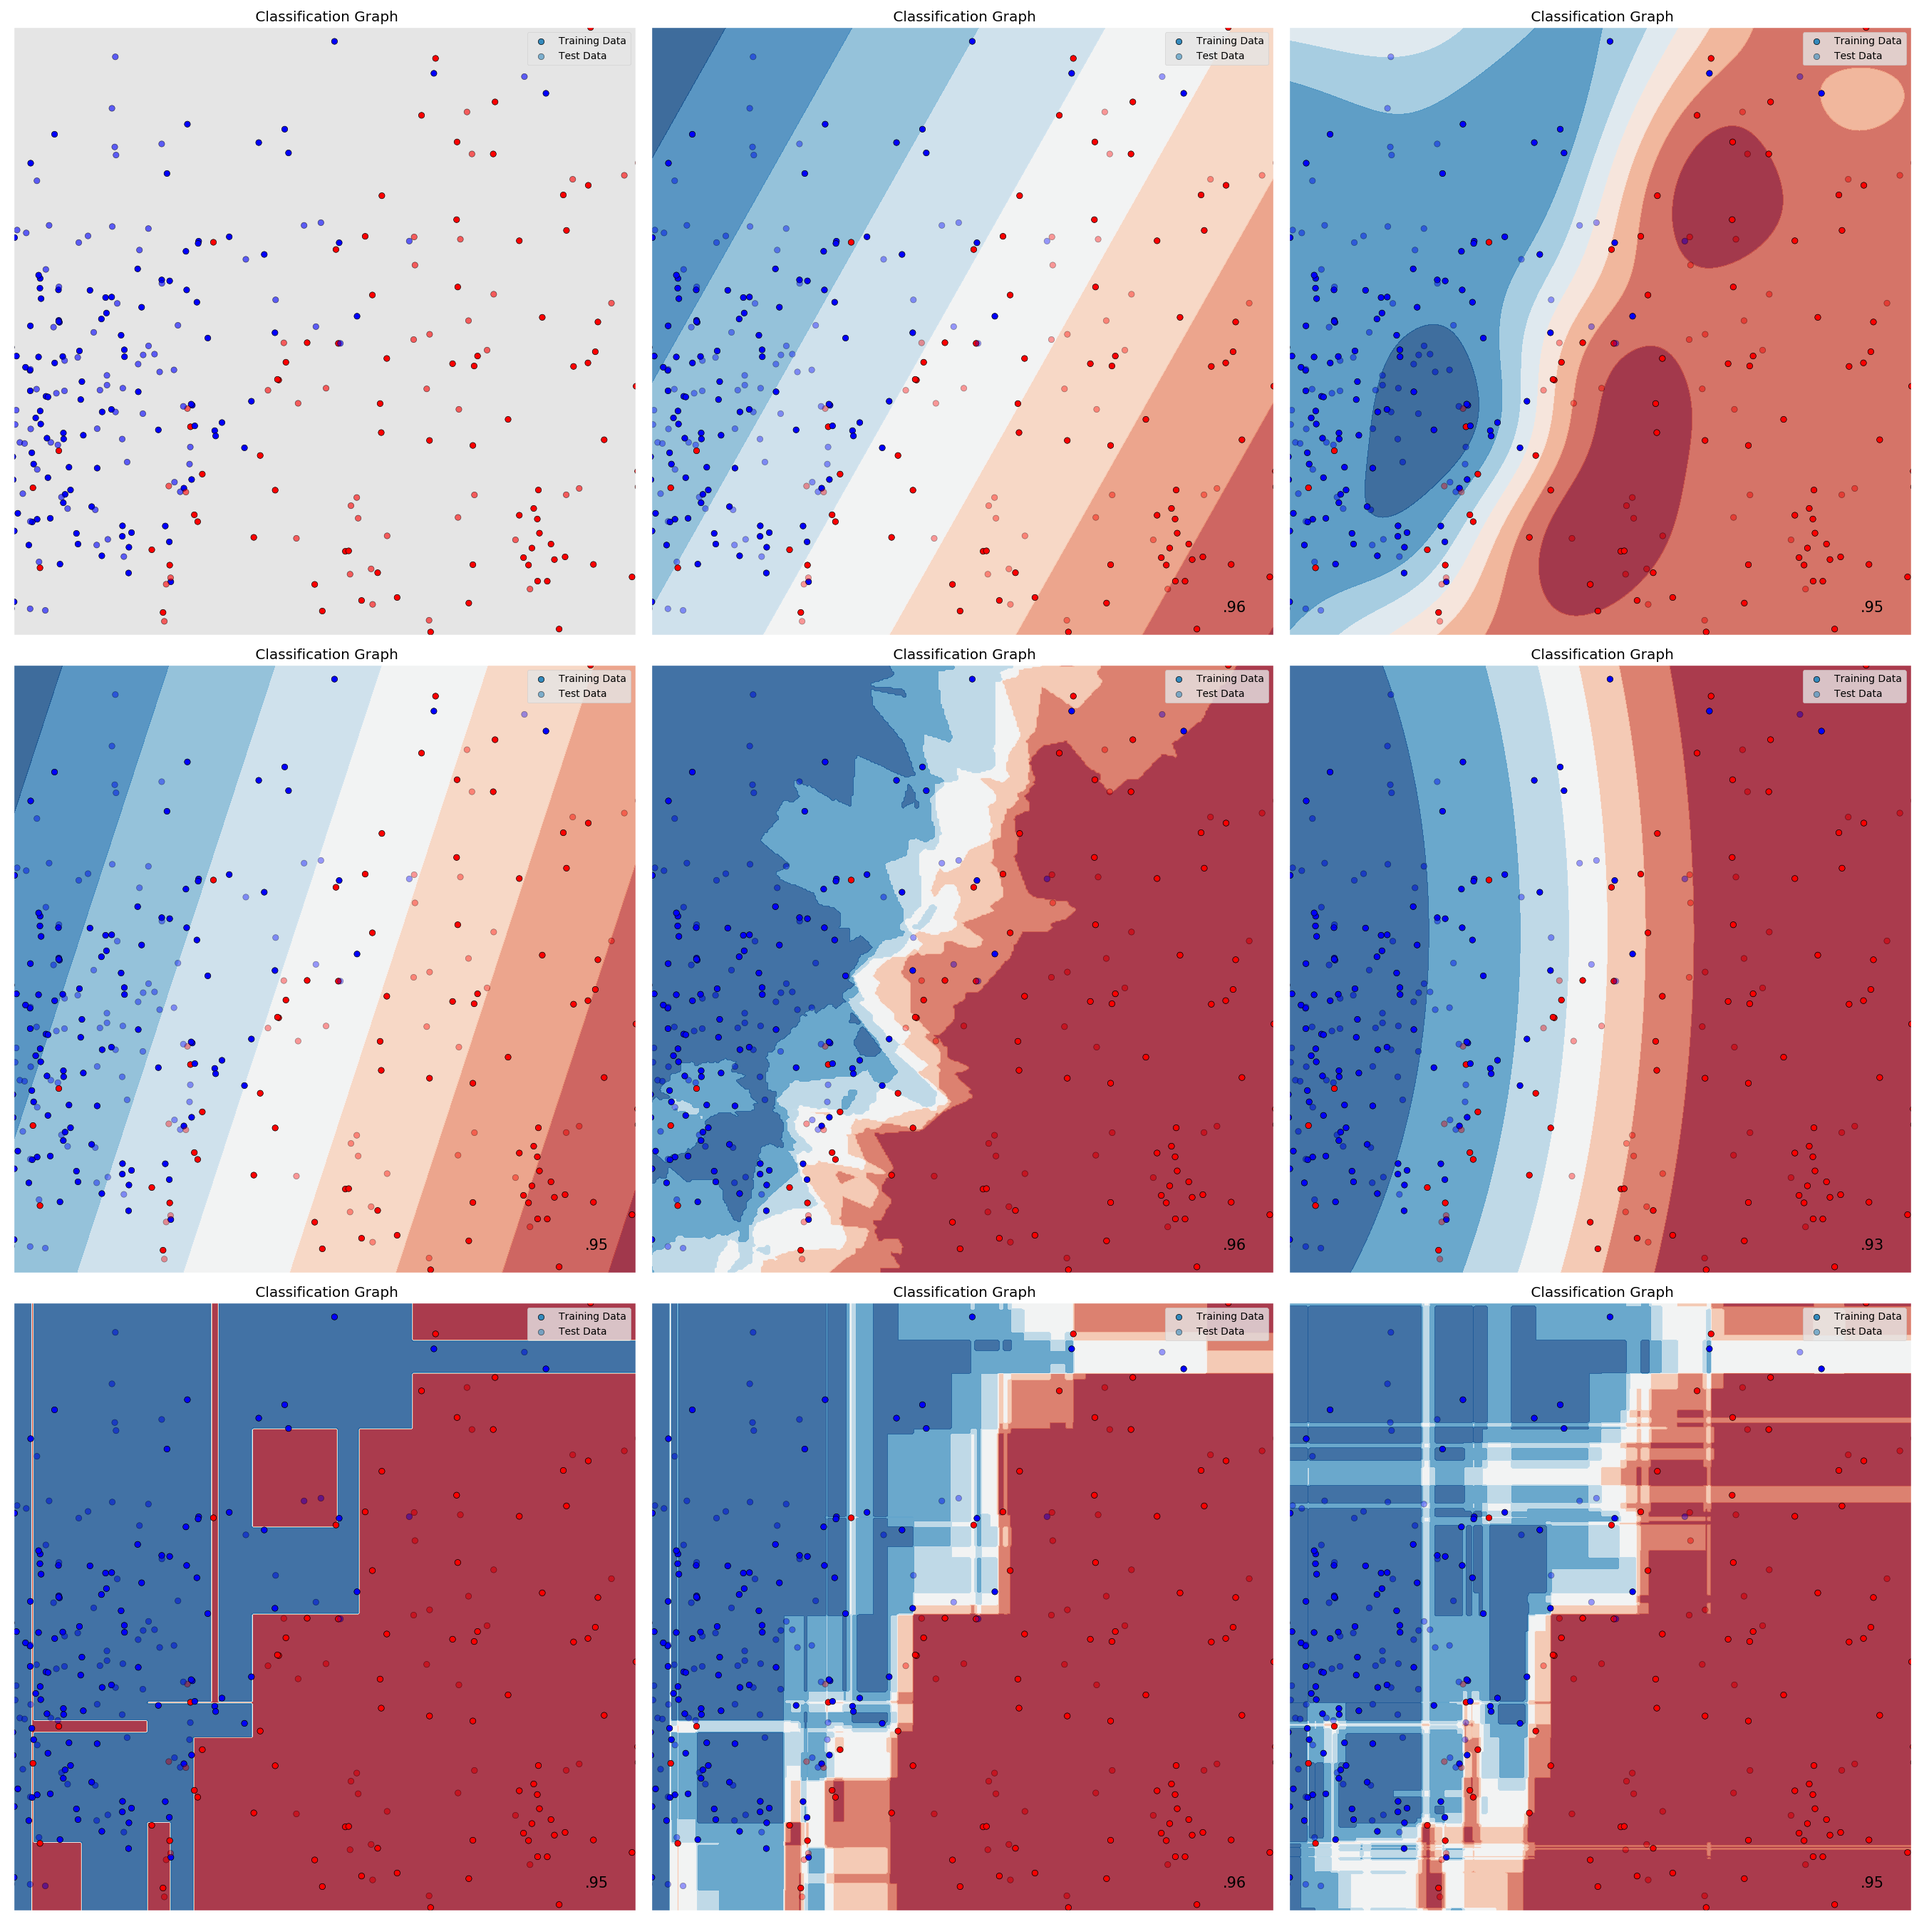
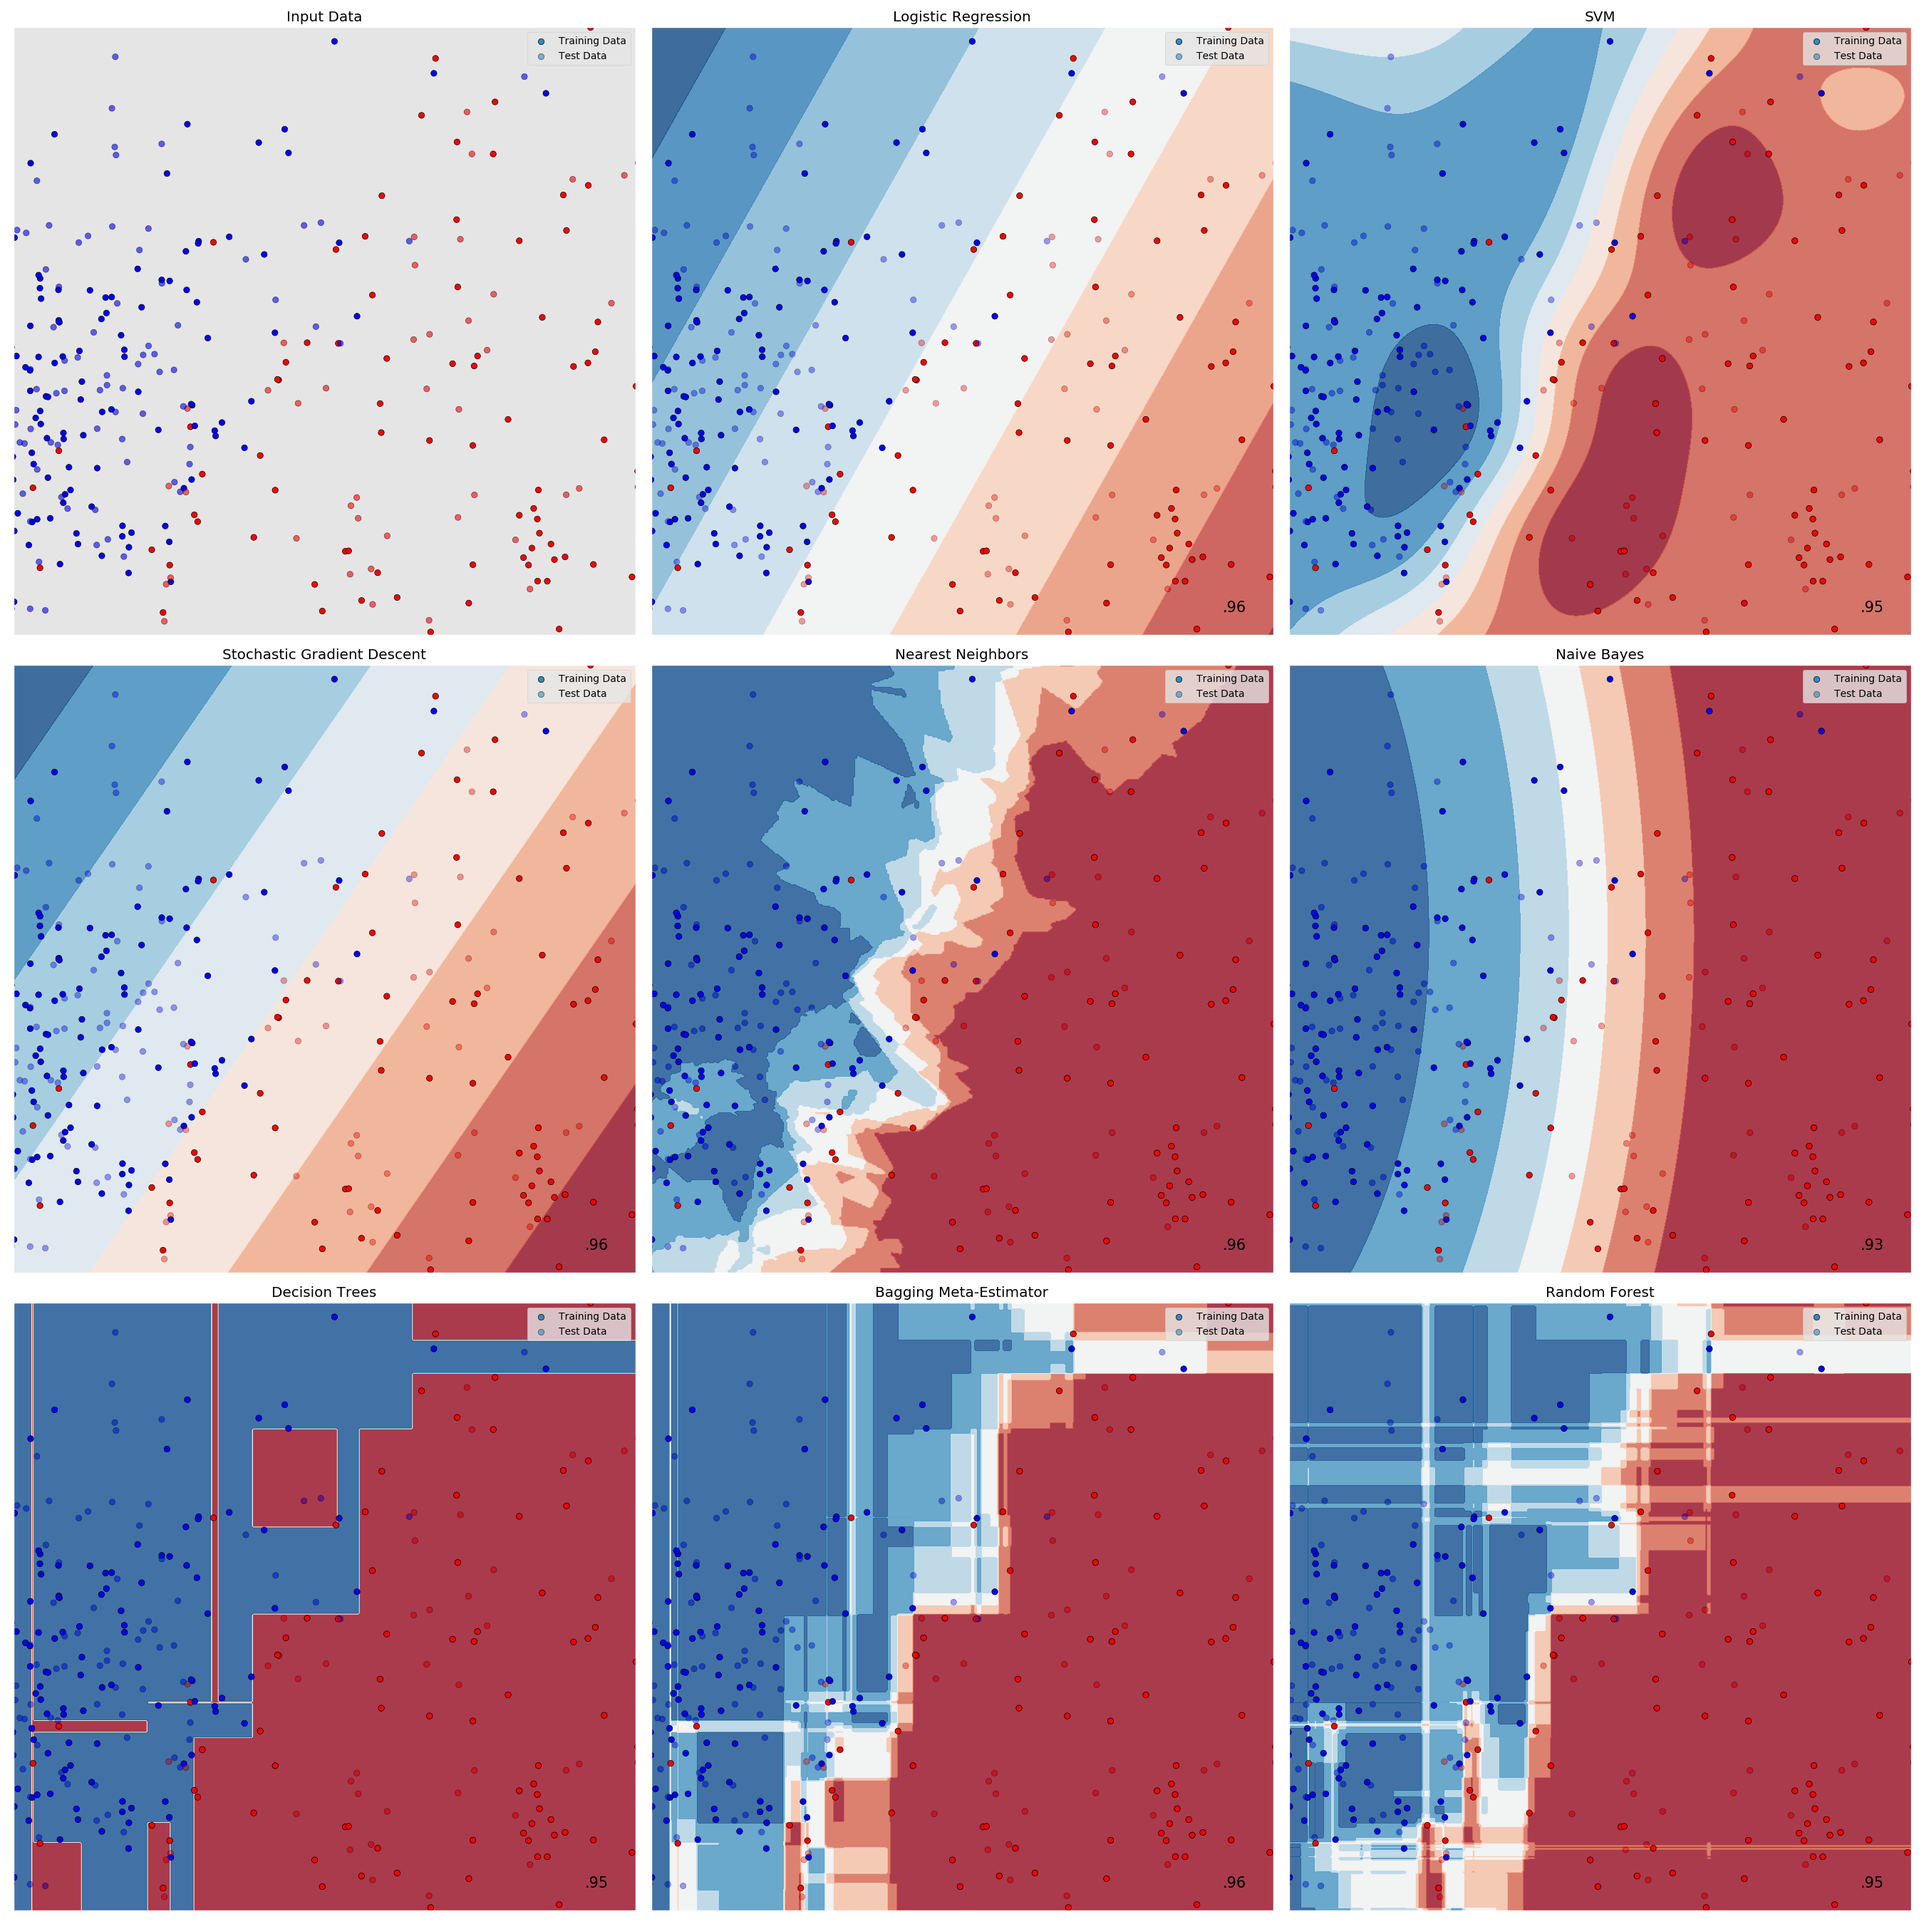
final changes

diff --git a/breastcancer_analysis.py b/breastcancer_analysis.py
@@ -93,7 +93,7 @@ for i in [1,2,3,4,5,6,7,8,9]:
 	cm = ppt.cm.RdBu
 	cm_bright = ListedColormap(['#FF0000', '#0000FF'])
 	ax = ppt.subplot(3,3,i)
-	ax.set_title(" Classification Graph")
+	ax.set_title("Input Data")
 	plot1=ax.scatter(X_train[:,0], X_train[:,1], c=Y_train, cmap=cm_bright, edgecolors='k')
 	plot2=ax.scatter(X_test[:,0], X_test[:,1], c=Y_test, cmap=cm_bright, alpha=0.6, edgecolors='k')
 	ax.legend((plot1, plot2), ('Training Data', 'Test Data'))
@@ -125,6 +125,7 @@ def plot_decision_boundary(model,data,position):
     ax.set_ylim(yy.min(), yy.max())
     ax.set_xticks(())
     ax.set_yticks(())
+    ax.set_title(cla_names[i])
 
 for i in (range(len(classifiers))):
 	plot_decision_boundary(classifiers[i], X, i+2)
